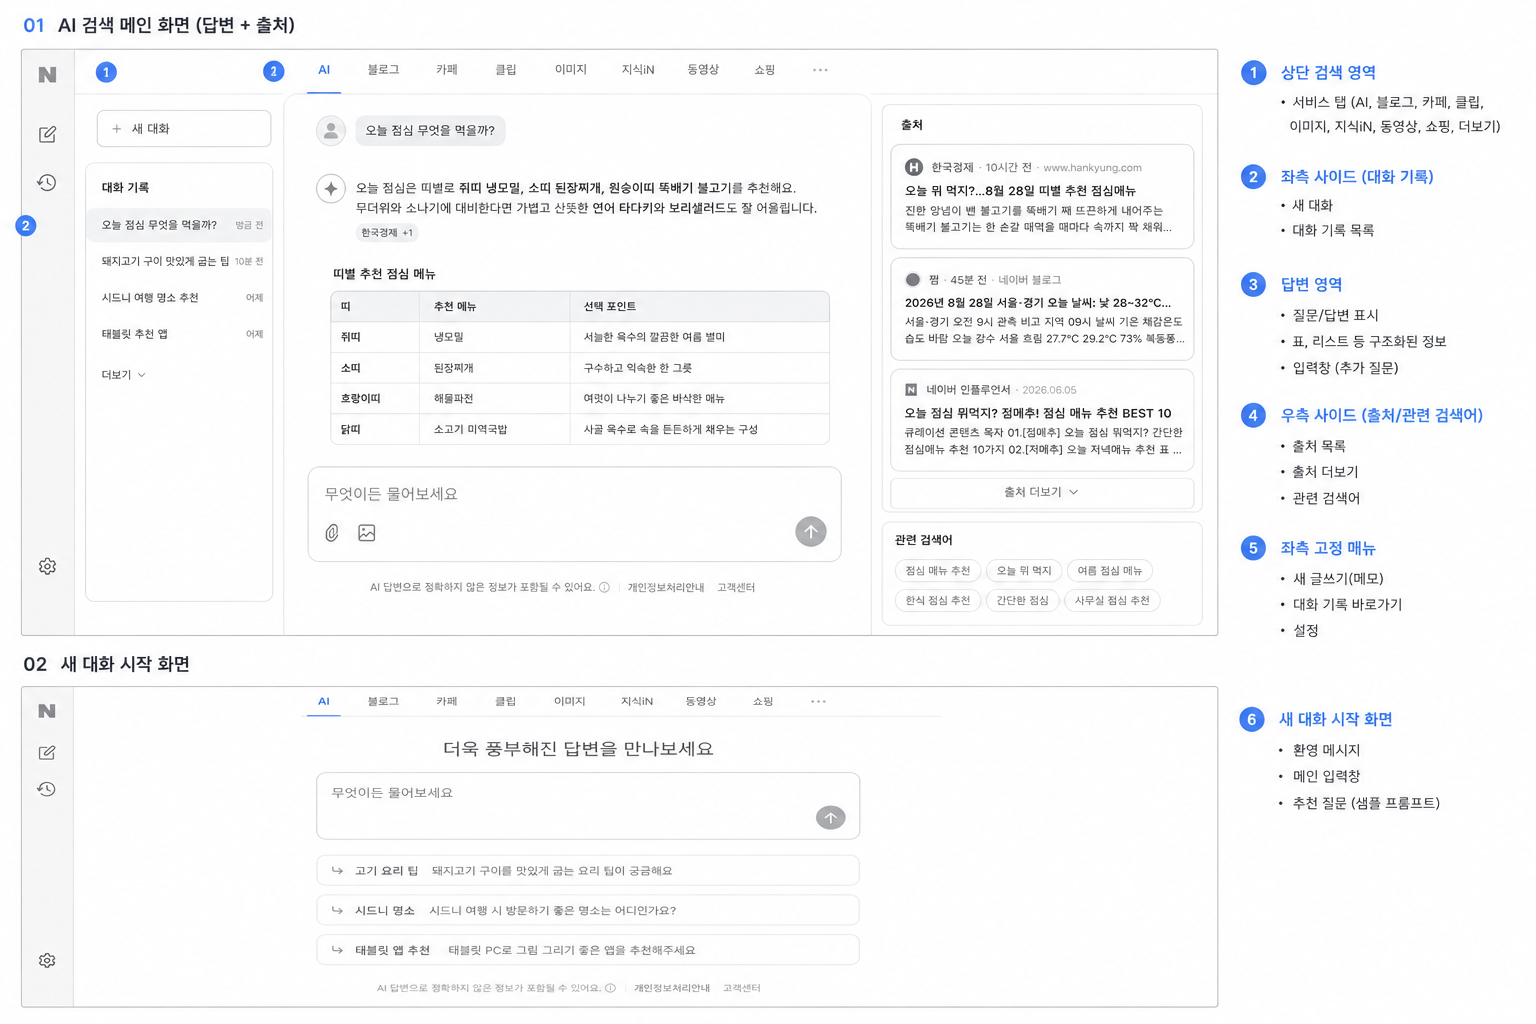
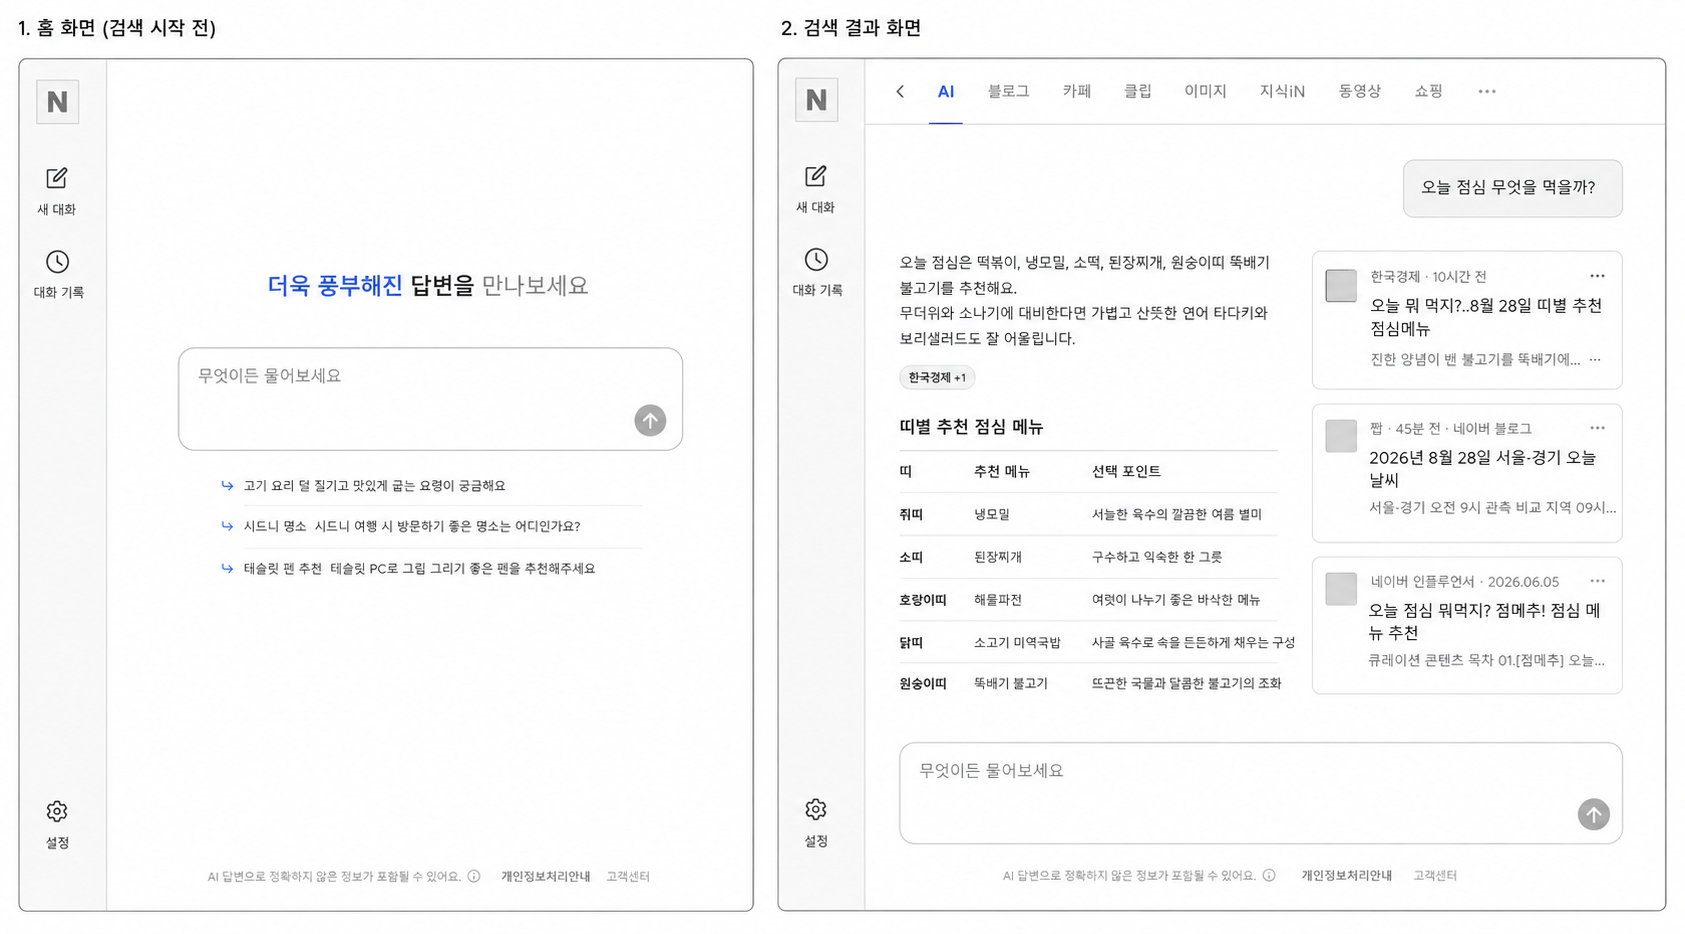
naver_ai 잘못된 부분 수정

diff --git a/naver_ai/naver_ai_search_ia_and_userflow.md b/naver_ai/naver_ai_search_ia_and_userflow.md
@@ -1,8 +1,7 @@
 # NAVER AI 검색 IA & User Flow
 
 ## 1. IA
-
-``` text
+```
 NAVER AI 검색
 │
 ├── Global Navigation
@@ -11,21 +10,10 @@ NAVER AI 검색
 │   ├── 대화 기록
 │   └── 설정
 │
-├── Search Navigation
-│   ├── AI
-│   ├── 블로그
-│   ├── 카페
-│   ├── 클립
-│   ├── 이미지
-│   ├── 지식iN
-│   ├── 동영상
-│   ├── 쇼핑
-│   └── 더보기 (...)
-│
 ├── AI 검색
 │   │
 │   ├── 초기 화면
-│   │   ├── 서비스 소개 문구
+│   │   ├── 환영/서비스 소개
 │   │   │   └── "더욱 풍부해진 답변을 만나보세요"
 │   │   │
 │   │   ├── 질문 입력 영역
@@ -38,17 +26,32 @@ NAVER AI 검색
 │   │       └── 추천 질문 03
 │   │
 │   └── 답변 결과 화면
+│       │
+│       ├── Search Navigation
+│       │   ├── AI
+│       │   ├── 블로그
+│       │   ├── 카페
+│       │   ├── 클립
+│       │   ├── 이미지
+│       │   ├── 지식iN
+│       │   ├── 동영상
+│       │   ├── 쇼핑
+│       │   └── 더보기 (...)
+│       │
 │       ├── 사용자 질문
+│       │
 │       ├── AI 답변
 │       │   ├── 자연어 답변
-│       │   ├── 출처/근거
 │       │   └── 구조화 콘텐츠
 │       │       └── 표
 │       │
-│       ├── 참고 콘텐츠
+│       ├── 출처
 │       │   ├── 뉴스/기사
 │       │   ├── 블로그
 │       │   └── 네이버 인플루언서
+│       │
+│       ├── 관련 검색어
+│       │   └── 관련 검색어 목록
 │       │
 │       └── 후속 질문 입력
 │
@@ -57,7 +60,6 @@ NAVER AI 검색
     ├── 개인정보처리방침
     └── 고객센터
 ```
-
 ------------------------------------------------------------------------
 
 ## 2. User Flow
